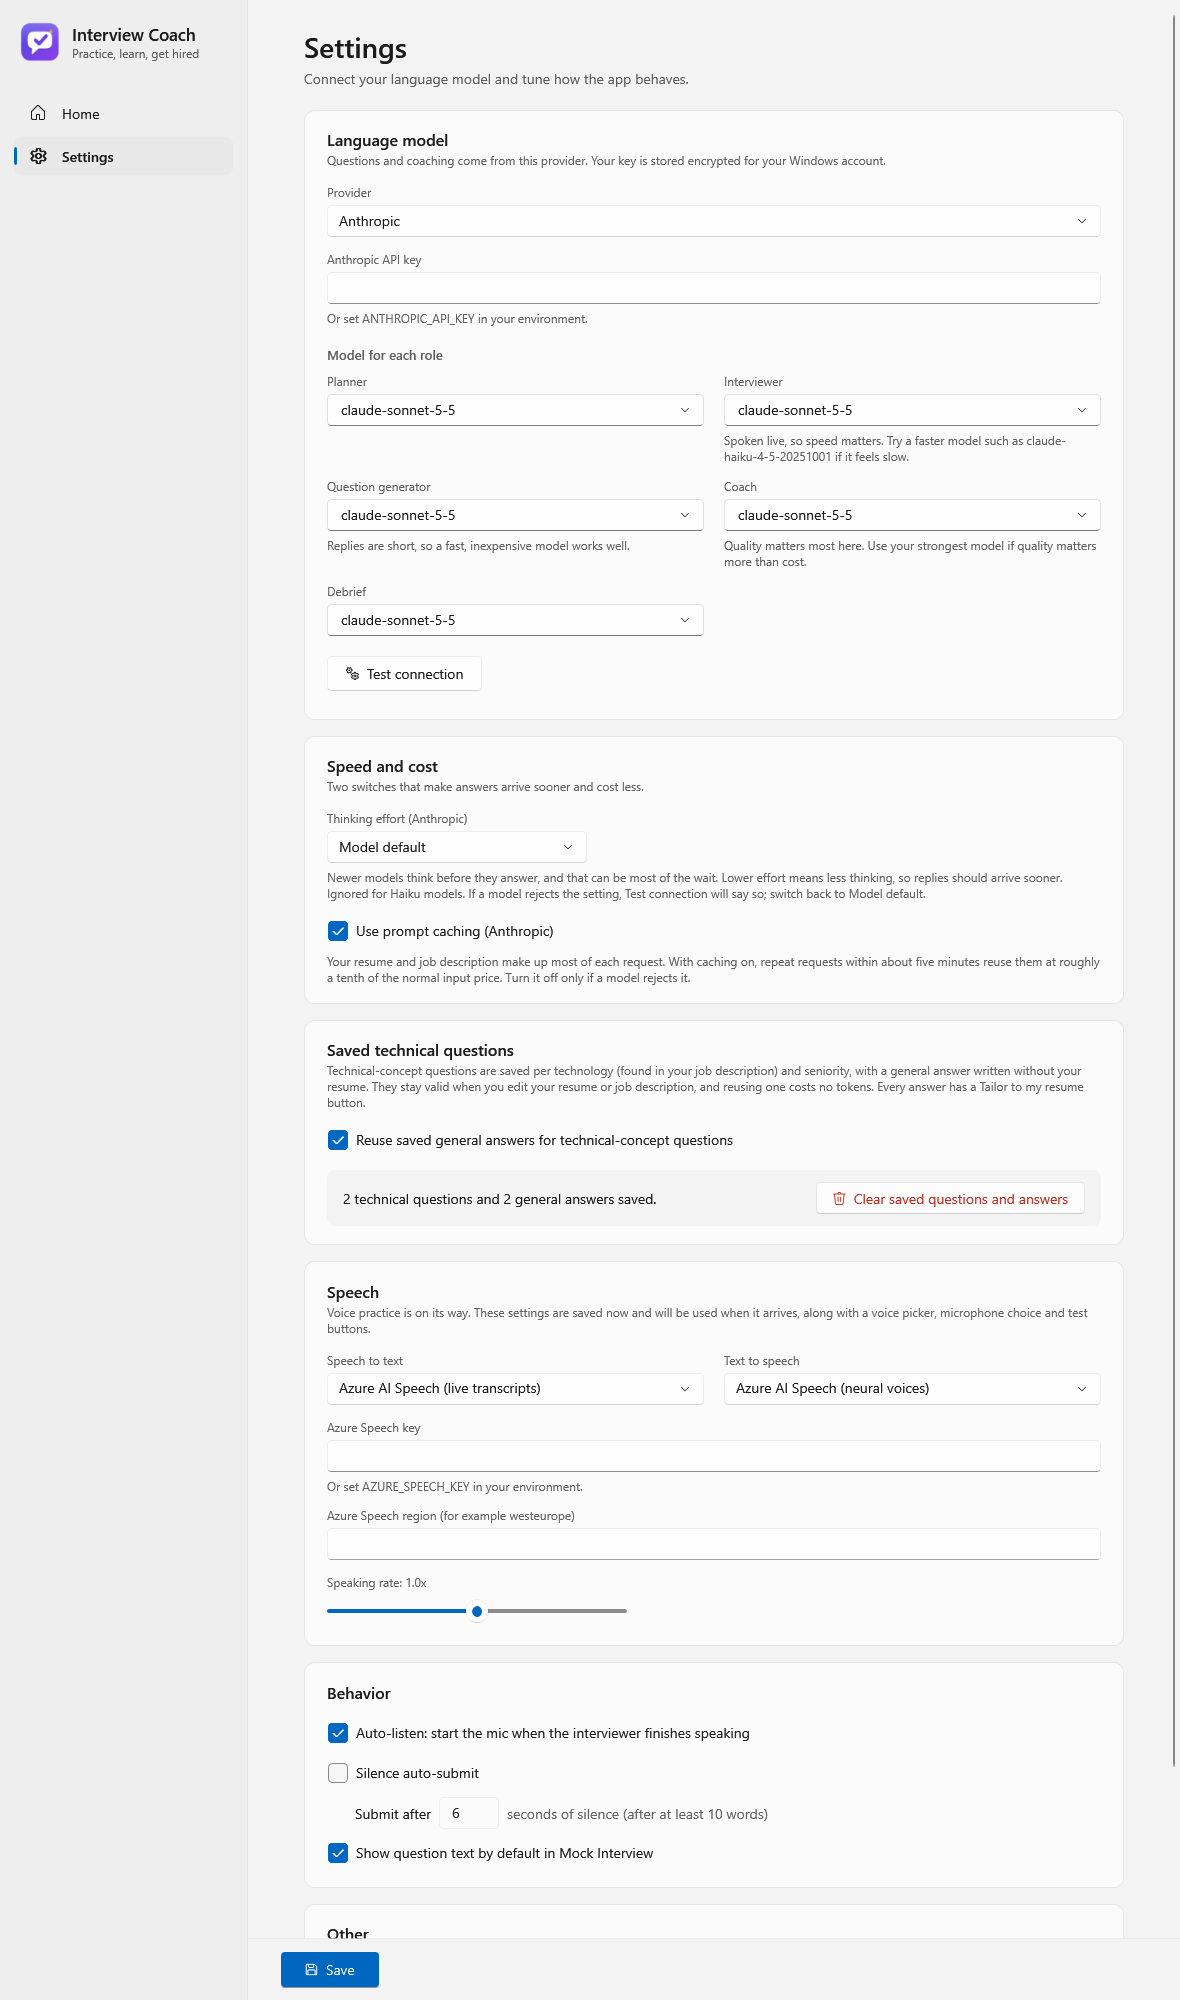
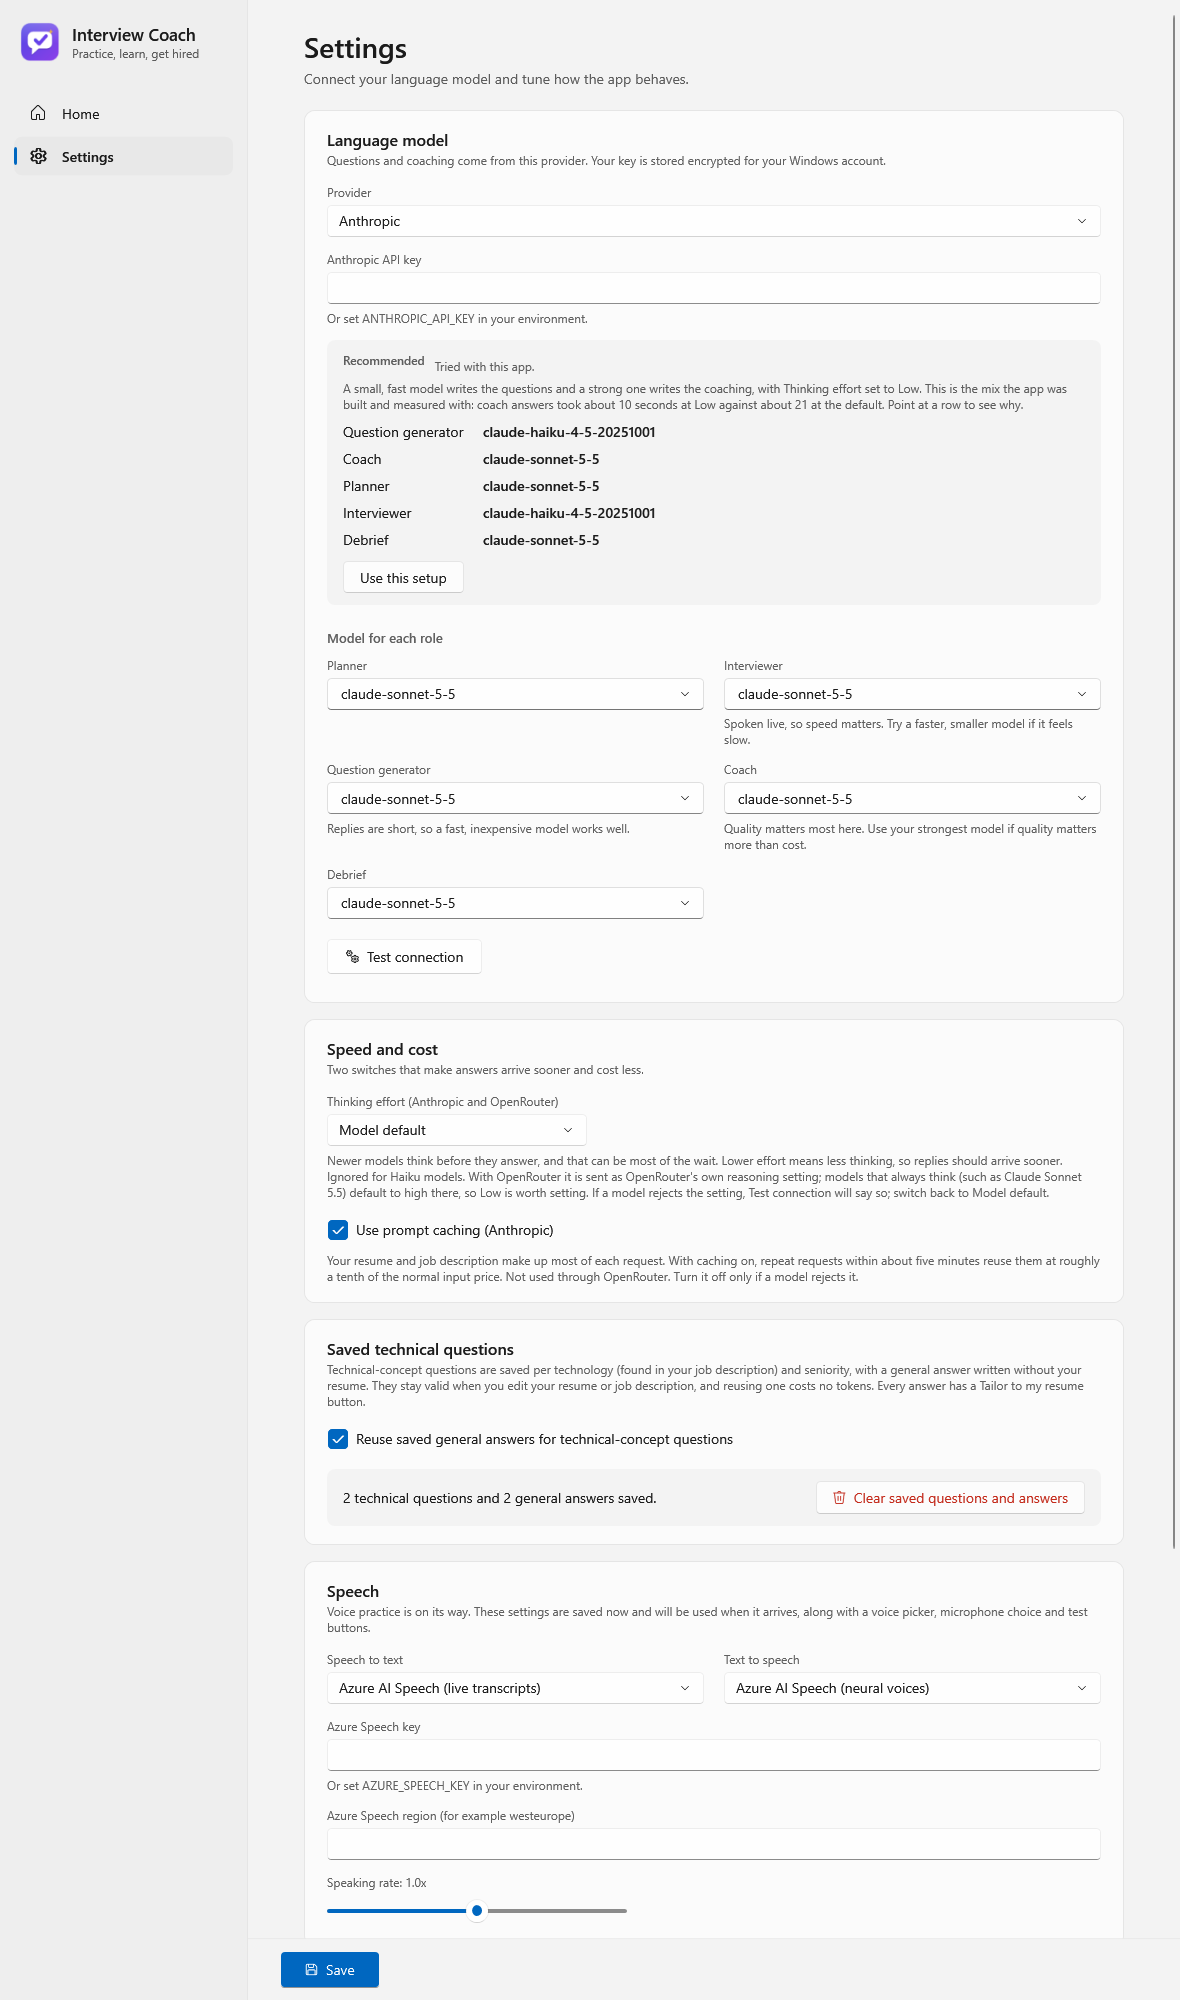
docs: explain the recommended setups and the OpenRouter effort field
README gains the recommended-setup table, the lower-cost caveat and why Low effort matters. The handoff records how each choice was made (what was measured, what came from the catalogue only, what is untried), the OpenRouter reasoning field and its limits, and corrects the earlier note that effort was not sent through OpenRouter. Screenshots regenerated; test count 461.

diff --git a/docs/HANDOFF.md b/docs/HANDOFF.md
@@ -31,7 +31,7 @@ background preparation of the next question; the technology bank (saved technica
 and seniority); By technology with an Other box; interviewer-style question length rules; full-time or contract role type with two
 extra question types; scroll-wheel behaviour on Home; app icon; a full visual redesign.
 
-Test status: **441 tests passing** (Core 178, Infrastructure 115, App 148). The last full verification was done with
+Test status: **461 tests passing** (Core 186, Infrastructure 120, App 155). The last full verification was done with
 `-c Release` because the user had the Debug build running (see section 2).
 
 **Version control.** The folder is a git repository (branch `main`). History is written to be read; see "Commit conventions" in `README.md`.
@@ -315,7 +315,7 @@ cache read about 0.1x, cache write about 1.25x; the user's balance drop was cons
 
 ## 10. Tests
 
-441 tests: Core 178, Infrastructure 115, App 148.
+461 tests: Core 186, Infrastructure 120, App 155.
 
 - **Core.Tests**: prompt rendering, engine behaviour (`LearnEngineTests`, `LearnEngineBankTests`, `LearnEngineTechnologyTests`,
   `EmploymentTypeTests`), bank service, answer length, question types, text helpers. Helpers in `TestDoubles.cs`:
@@ -406,9 +406,17 @@ OpenRouter key; the model id (`maker/model`, for example `anthropic/claude-sonne
   the user clicks **Load models**, so opening Settings never touches the network. The screen has search (every word must match the name or the
   id), **Cheapest first**, and three buttons that copy the selected id into the Question generator, the Coach or every role. Nothing is saved
   until **Save**.
-- **Not sent through OpenRouter:** thinking effort (`LlmService.OptionsFor` only sets it for Anthropic) and the cache markers
-  (`BuildSystemMessage` only splits for Anthropic), because the OpenAI adapter cannot carry Anthropic's `cache_control`. OpenRouter caches
-  automatically for some providers. A thinking model on OpenRouter will therefore think at its own default, so prefer a fast model.
+- **Thinking effort goes through OpenRouter's own field.** OpenRouter's documentation says it takes a `reasoning` object
+  (`"reasoning": {"effort": "low"}`) and not OpenAI's `reasoning_effort`. The OpenAI client has no setting for that, so
+  `OpenRouterReasoningPolicy` (a per-call pipeline policy) adds the field to each chat request body when the user chose Low, Medium or
+  High; with "Model default" nothing is added. `ChatClientFactory` includes the effort in its cache key so a change takes effect at once, and
+  takes an optional endpoint so tests can point it at a local stand-in server that records the request (path, bearer key, body).
+  `ChatOptions.Reasoning` is deliberately not set for OpenRouter (that would send the OpenAI-style field). **Verified:** what is sent.
+  **Not verified live:** that OpenRouter accepts it for every model; models that support only some efforts (the catalogue lists
+  `supported_efforts` per model, for example DeepSeek V4 lists only high and xhigh) may reject Low, which Test connection would show.
+  Reasoning tokens count as output tokens and, on most providers, against `max_tokens` (the app caps replies at 4096).
+- **Cache markers are still Anthropic-only** (`BuildSystemMessage`), because the OpenAI adapter cannot carry `cache_control`. OpenRouter
+  caches automatically for some providers.
 - **Measured:** the live catalogue on 2 October 2026 had 465 entries; the parser keeps 377 (the rest are batch copies and image or audio
   generators), 20 of them free, 4 with no price. Examples, per million tokens in/out: `anthropic/claude-sonnet-5.5` $2.00/$10.00,
   `anthropic/claude-haiku-4.5` $1.00/$5.00, `google/gemini-3.5-flash-lite` $0.30/$2.50, `deepseek/deepseek-v4-flash` $0.028/$0.056.
@@ -417,3 +425,26 @@ OpenRouter key; the model id (`maker/model`, for example `anthropic/claude-sonne
 - **Tests:** `OpenRouterSettingsTests` (Core), `OpenRouterTests` (Infrastructure: parsing, HTTP stub, factory, key encryption, no Anthropic-only
   features), `OpenRouterSettingsUiTests` (App: provider swap, search, sort, use buttons, real view without binding errors). `FakeCatalog` is in
   `Fakes.cs`; `VisualSnapshots` also writes `5-settings-openrouter-*.png`.
+
+### Recommended setups (added with the OpenRouter work)
+
+`ModelRecommendations.For(provider)` (Core) returns `RecommendedSetup`s: a model for each of the five roles, the thinking effort (Low for all),
+a summary, and whether it was `Tested` with this app. Anthropic has one; OpenRouter has two; OpenAI-compatible has none (its model names cannot
+be known). `SettingsViewModel.SetupCards` turns them into cards with a **Use this setup** button; applying fills the five boxes and sets
+Thinking effort, and nothing is saved until Save. For OpenRouter each row shows the live price from the loaded catalogue, or says the model is
+not in OpenRouter's current list (and the status line names any such models when the setup is applied), so a retired model id cannot go unnoticed.
+
+How the choices were made, so they can be revisited:
+
+- Question generator = the small model (`claude-haiku-4-5-20251001`, OpenRouter `anthropic/claude-haiku-4.5`); Coach, Planner and Debrief =
+  the strong one (`claude-sonnet-5-5`, `anthropic/claude-sonnet-5.5`); Interviewer = the fast one. These are the models the prompts were written
+  and measured against (see section 8). **Haiku was not faster than Sonnet in practice**; it is recommended for the question generator because it is
+  cheaper and its replies there are short.
+- Why Low effort is part of every setup: the live OpenRouter catalogue (2 October 2026) says `anthropic/claude-sonnet-5.5` has mandatory reasoning with
+  default effort **high**, the setup that made this app's Sonnet coach call take about 21 s instead of about 10 s at Low.
+- The **Lower cost** OpenRouter setup (`google/gemini-3.5-flash-lite` for the question generator and interviewer, `openai/gpt-5-mini` for the
+  rest) was chosen from the catalogue only: both list `low` among supported efforts, and prices were about $0.30/$2.50 and $0.25/$2.00 per million
+  tokens in/out. It is **not tried**: answer quality, JSON validity, speed and real cost are unmeasured. The UI says so. DeepSeek V4 models are
+  far cheaper but list only high and xhigh efforts and think by default, so they were left out of the suggestions.
+- Ids drift. If an id leaves OpenRouter's list the card says so after Load models. Update `ModelRecommendations` when models are retired, and
+  keep `OpenRouterSuggestions` in `SettingsViewModel` in step.

diff --git a/README.md b/README.md
@@ -12,7 +12,7 @@
 <p align="center">
   <img alt=".NET 10" src="https://img.shields.io/badge/.NET-10-512BD4">
   <img alt="WPF" src="https://img.shields.io/badge/UI-WPF%20%28MVVM%29-0078D4">
-  <img alt="Tests" src="https://img.shields.io/badge/tests-441%20passing-2EA043">
+  <img alt="Tests" src="https://img.shields.io/badge/tests-461%20passing-2EA043">
   <img alt="Platform" src="https://img.shields.io/badge/platform-Windows%2010%2F11-lightgrey">
   <img alt="Status" src="https://img.shields.io/badge/status-Learn%20mode%20complete-blue">
 </p>
@@ -140,14 +140,33 @@ OpenRouter gives you **one key for many models** and you choose the model yourse
 
 1. Create a key at [openrouter.ai/keys](https://openrouter.ai/keys) and add credit.
 2. In **Settings**, set **Provider** to **OpenRouter** and paste the key (or set `OPENROUTER_API_KEY`).
-3. Under **Choose a model**, click **Load models**. Search by name (for example `claude`, `gemini flash`, `deepseek`), tick
+3. Click **Use this setup** under **Recommended** (see below), or choose models yourself: under **Choose a model**, click **Load models**. Search by name (for example `claude`, `gemini flash`, `deepseek`), tick
    **Cheapest first** if you like, select a model, and click **Question generator**, **Coach** or **Every role**.
    Each row shows the model name, its id, the price per million tokens and the context size.
 4. Click **Test connection**, then **Save**.
 
 OpenRouter model ids look like `anthropic/claude-sonnet-5.5`, so OpenRouter keeps its **own set of models**, separate from the
-Anthropic ones; switching provider swaps the boxes and never loses either set. Two Anthropic-only features are not used through
-OpenRouter: **Thinking effort** and **Prompt caching** (pick a model that is fast without thinking instead).
+Anthropic ones; switching provider swaps the boxes and never loses either set. **Thinking effort** is sent to OpenRouter in its
+own `reasoning` field. **Prompt caching** is not used through OpenRouter.
+
+**Recommended setups.** Settings shows ready-made choices for each provider; each row is one role with its model (and, for OpenRouter,
+the live price once you click **Load models**), and **Use this setup** fills in the boxes and sets Thinking effort to Low. Nothing is
+saved until **Save**.
+
+| Role | Recommended | Why |
+|---|---|---|
+| Question generator | `claude-haiku-4-5-20251001` (OpenRouter: `anthropic/claude-haiku-4.5`) | One short question per call, so a small, fast model is enough |
+| Coach | `claude-sonnet-5-5` (OpenRouter: `anthropic/claude-sonnet-5.5`) | Writes the answer you practise from, so quality matters most |
+| Planner, Debrief | the strong model | Used by Mock Interview, which is not built yet |
+| Interviewer | the fast model | Speaks live in Mock Interview, so speed matters |
+
+These are the models the prompts were written and measured against. For OpenRouter there is also a **Lower cost** setup
+(`google/gemini-3.5-flash-lite` for questions, `openai/gpt-5-mini` for the rest) that is clearly marked **not tried with this app yet**:
+it was picked from OpenRouter's published list (price, support for low thinking effort), not from this app's answers, so read a few
+answers before relying on it.
+
+Why Low thinking effort matters: on OpenRouter, Claude Sonnet 5.5 always thinks and defaults to *high* effort. In earlier
+measurements this app's coach call took about 21 seconds at the default and about 10 at Low.
 
 <img src="docs/images/settings-openrouter-light.png" alt="Settings with OpenRouter selected, light" width="560">
 
@@ -310,16 +329,16 @@ on its OpenRouter page if that matters to you. The model list for the OpenRouter
 ## Testing
 
 ```bash
-dotnet test                                     # all 441 tests
+dotnet test                                     # all 461 tests
 dotnet test tests/InterviewCoach.Core.Tests     # one project
 dotnet build InterviewCoach.sln -c Release      # use this if the Debug exe is running (it locks its DLLs)
 ```
 
 | Project | Tests | Covers |
 |---|---|---|
-| `InterviewCoach.Core.Tests` | 178 | Prompt rendering, engine behaviour, the bank, answer lengths, question types, text helpers, role type |
-| `InterviewCoach.Infrastructure.Tests` | 115 | JSON parsing, LLM service (retry, cache split, options), settings (DPAPI round trip, no plaintext), SQLite repositories on real files, file extractors, prompt guards, Demo-mode isolation |
-| `InterviewCoach.App.Tests` | 148 | View models and **real WPF views** on a shared STA dispatcher; fails on any binding error |
+| `InterviewCoach.Core.Tests` | 186 | Prompt rendering, engine behaviour, the bank, answer lengths, question types, text helpers, role type |
+| `InterviewCoach.Infrastructure.Tests` | 120 | JSON parsing, LLM service (retry, cache split, options), settings (DPAPI round trip, no plaintext), SQLite repositories on real files, file extractors, prompt guards, Demo-mode isolation |
+| `InterviewCoach.App.Tests` | 155 | View models and **real WPF views** on a shared STA dispatcher; fails on any binding error |
 
 Test names are sentences that describe behaviour. Scripted test doubles (`ScriptedLlmService`, `BankScript`) let tests control exactly
 what the model "says", including delays and failures.

diff --git a/SPEC.md b/SPEC.md
@@ -824,4 +824,5 @@ The sections above are the original spec. These later decisions override them wh
   - The general answer is written by `coach.md` with no job description and a note in place of the resume asking for a general answer with bracketed placeholders for personal experience. Answers are saved per question and per requested length. Each general answer has a "Tailor to my resume" button, which writes a normal answer from the resume (not saved).
   - With several question types allowed, the bank supplies its fair share (1 in N) of the technical-concept questions and the model writes the rest without being offered the technical type. If no technologies are found, or any bank step fails, the model writes the question as before.
   - Demo mode uses an in-memory bank so made-up questions never reach the real database. Settings can turn the bank off and clear it.
-- **OpenRouter provider.** Settings has a third provider, "OpenRouter (one key, hundreds of models)": one OpenRouter key (stored encrypted like the others, or `OPENROUTER_API_KEY`) works for every model, and the model is chosen by its id (for example `anthropic/claude-sonnet-5.5`). OpenRouter keeps its own five per-role models (`OpenRouter*Model`, default `anthropic/claude-sonnet-5.5`) separate from the Anthropic and OpenAI-compatible ones, because the ids differ; switching provider on the Settings screen swaps the boxes and keeps both sets. Under "Choose a model" the user clicks "Load models" to download OpenRouter's public model list (text models only; discounted batch copies are left out), searches it by name or id, optionally sorts cheapest first, sees each model's price per million tokens and context size, and applies the selected model to the Question generator, the Coach or every role; nothing is saved until Save. The list is only fetched when asked. Thinking effort and prompt caching are not sent through OpenRouter.
+- **OpenRouter provider.** Settings has a third provider, "OpenRouter (one key, hundreds of models)": one OpenRouter key (stored encrypted like the others, or `OPENROUTER_API_KEY`) works for every model, and the model is chosen by its id (for example `anthropic/claude-sonnet-5.5`). OpenRouter keeps its own five per-role models (`OpenRouter*Model`, default `anthropic/claude-sonnet-5.5`) separate from the Anthropic and OpenAI-compatible ones, because the ids differ; switching provider on the Settings screen swaps the boxes and keeps both sets. Under "Choose a model" the user clicks "Load models" to download OpenRouter's public model list (text models only; discounted batch copies are left out), searches it by name or id, optionally sorts cheapest first, sees each model's price per million tokens and context size, and applies the selected model to the Question generator, the Coach or every role; nothing is saved until Save. The list is only fetched when asked. Thinking effort is sent through OpenRouter as its own `reasoning` request field (the OpenAI `reasoning_effort` field is not used); prompt caching is not used through OpenRouter.
+- **Recommended setups.** Settings shows ready-made model choices above the per-role boxes: Anthropic has one ("Recommended"), OpenRouter has two ("Recommended" and "Lower cost (not tried yet)"), OpenAI-compatible has none. Each is a list of the five roles with the model, plus a "Use this setup" button that fills in the boxes and sets Thinking effort to Low (nothing is saved until Save). Rows show why on hover; for OpenRouter they show the live price once Load models has been clicked, or say the model is no longer in OpenRouter's list. The Recommended setups use the question generator on the small model (Haiku) and the coach, planner and debrief on the strong one (Sonnet), with the interviewer on the small one. The Lower cost setup is labelled as not tried because it was picked from OpenRouter's published list, not from this app's answers.

diff --git a/CLAUDE.md b/CLAUDE.md
@@ -8,7 +8,7 @@ architecture, decisions, measurements and traps. The code and tests are the trut
 
 ```
 dotnet run --project src/InterviewCoach.App
-dotnet test                                    # all tests (441 at last count)
+dotnet test                                    # all tests (461 at last count)
 dotnet build InterviewCoach.sln -c Release     # use -c Release when the user has the Debug exe running
 ```
 
